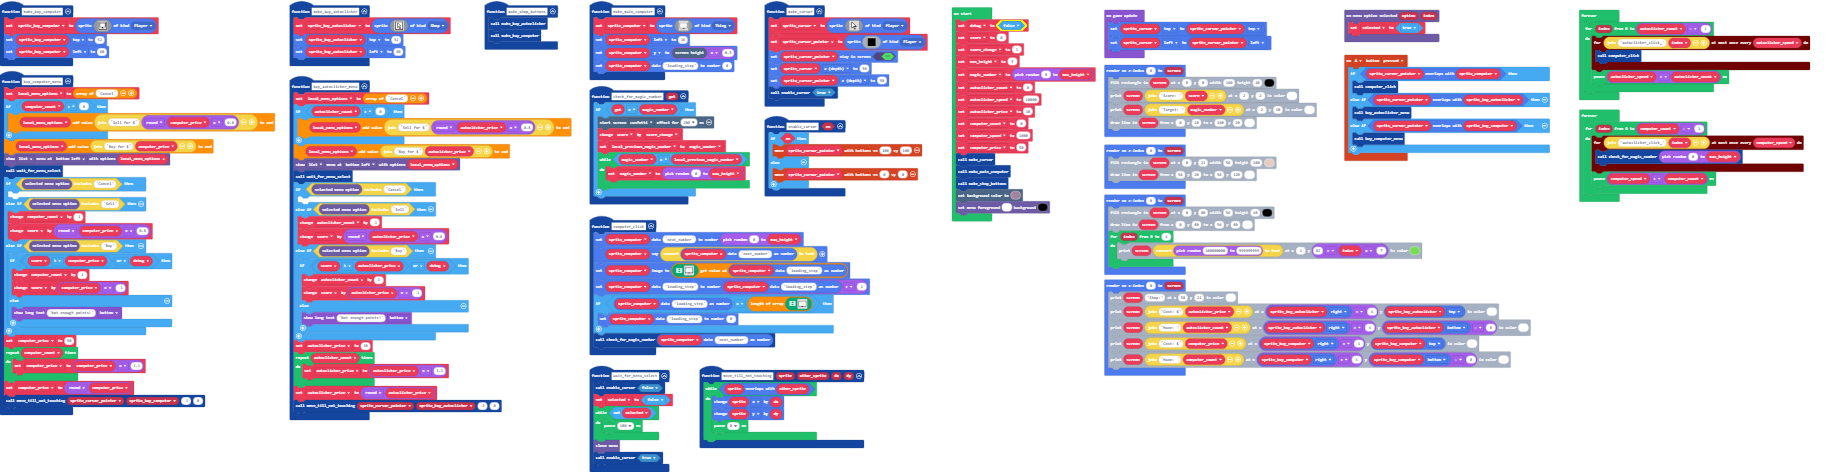
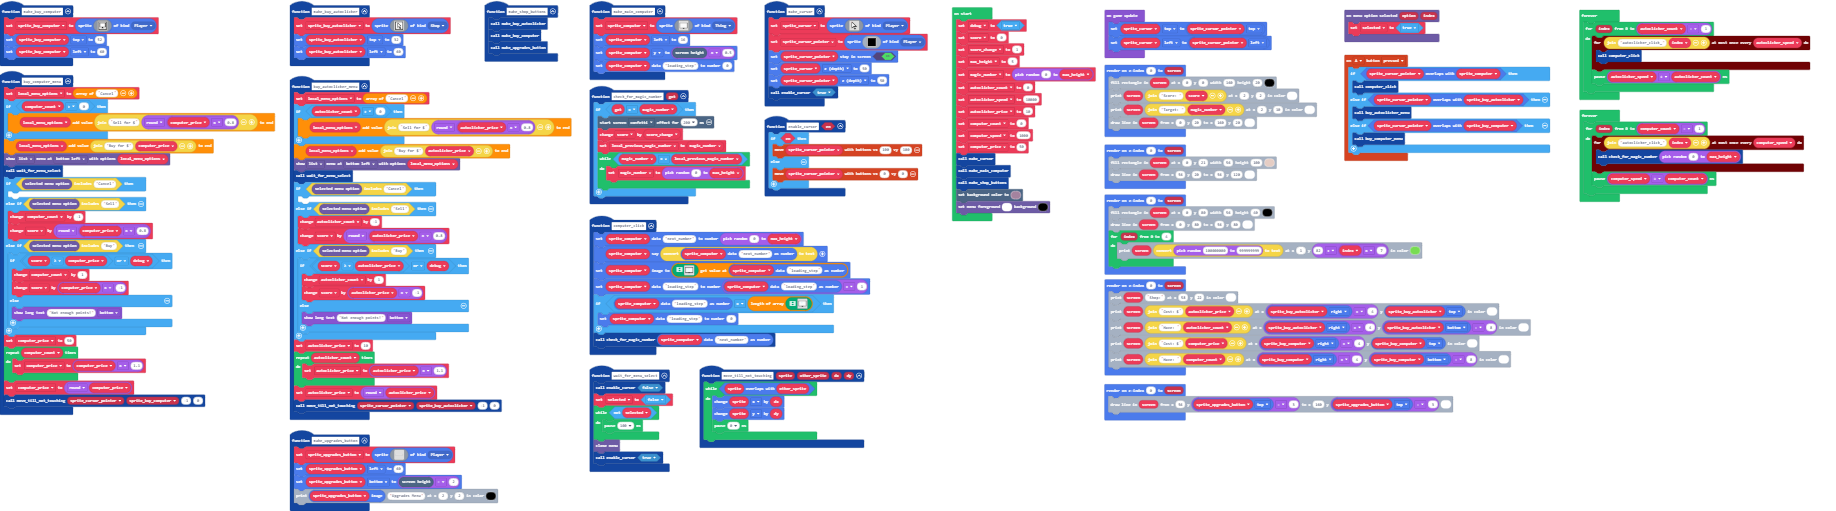
Add blank upgrades menu

diff --git a/main.ts b/main.ts
@@ -115,6 +115,15 @@ spriteutils.createRenderable(0, function (screen2) {
     images.print(screen2, "Cost: $" + computer_price, sprite_buy_computer.right + 4, sprite_buy_computer.top, 1)
     images.print(screen2, "Have: " + computer_count, sprite_buy_computer.right + 4, sprite_buy_computer.bottom - 8, 1)
 })
+spriteutils.createRenderable(0, function (screen2) {
+    screen2.drawLine(56, sprite_upgrades_button.top - 3, 160, sprite_upgrades_button.top - 3, 1)
+})
+function make_upgrades_button () {
+    sprite_upgrades_button = sprites.create(assets.image`upgrades_button`, SpriteKind.Player)
+    sprite_upgrades_button.left = 60
+    sprite_upgrades_button.bottom = scene.screenHeight() - 2
+    images.print(sprite_upgrades_button.image, "Upgrades Menu", 2, 2, 15)
+}
 function make_buy_autoclicker () {
     sprite_buy_autoclicker = sprites.create(assets.image`buy_autoclicker_button`, SpriteKind.Shop)
     sprite_buy_autoclicker.top = 32
@@ -164,8 +173,10 @@ blockMenu.onMenuOptionSelected(function (option, index) {
 function make_shop_buttons () {
     make_buy_autoclicker()
     make_buy_computer()
+    make_upgrades_button()
 }
 let local_previous_magic_number = 0
+let sprite_upgrades_button: Sprite = null
 let selected = false
 let sprite_cursor: Sprite = null
 let sprite_buy_autoclicker: Sprite = null
@@ -182,7 +193,7 @@ let max_height = 0
 let score_change = 0
 let score = 0
 let debug = false
-debug = false
+debug = true
 score = 0
 score_change = 1
 max_height = 5

diff --git a/images.g.ts b/images.g.ts
@@ -85,6 +85,21 @@ f 1 1 1 1 1 1 1 1 1 1 1 1 1 1 f
 f 1 1 1 1 1 1 1 1 1 1 1 1 1 1 f 
 f f f f f f f f f f f f f f f f 
 `;
+            case "image4":
+            case "upgrades_button":return img`
+ffffffffffffffffffffffffffffffffffffffffffffffffffffffffffffffffffffffffffffffffff
[10 lines of base64/hex data omitted]
+ffffffffffffffffffffffffffffffffffffffffffffffffffffffffffffffffffffffffffffffffff
+`;
         }
         return null;
     })
